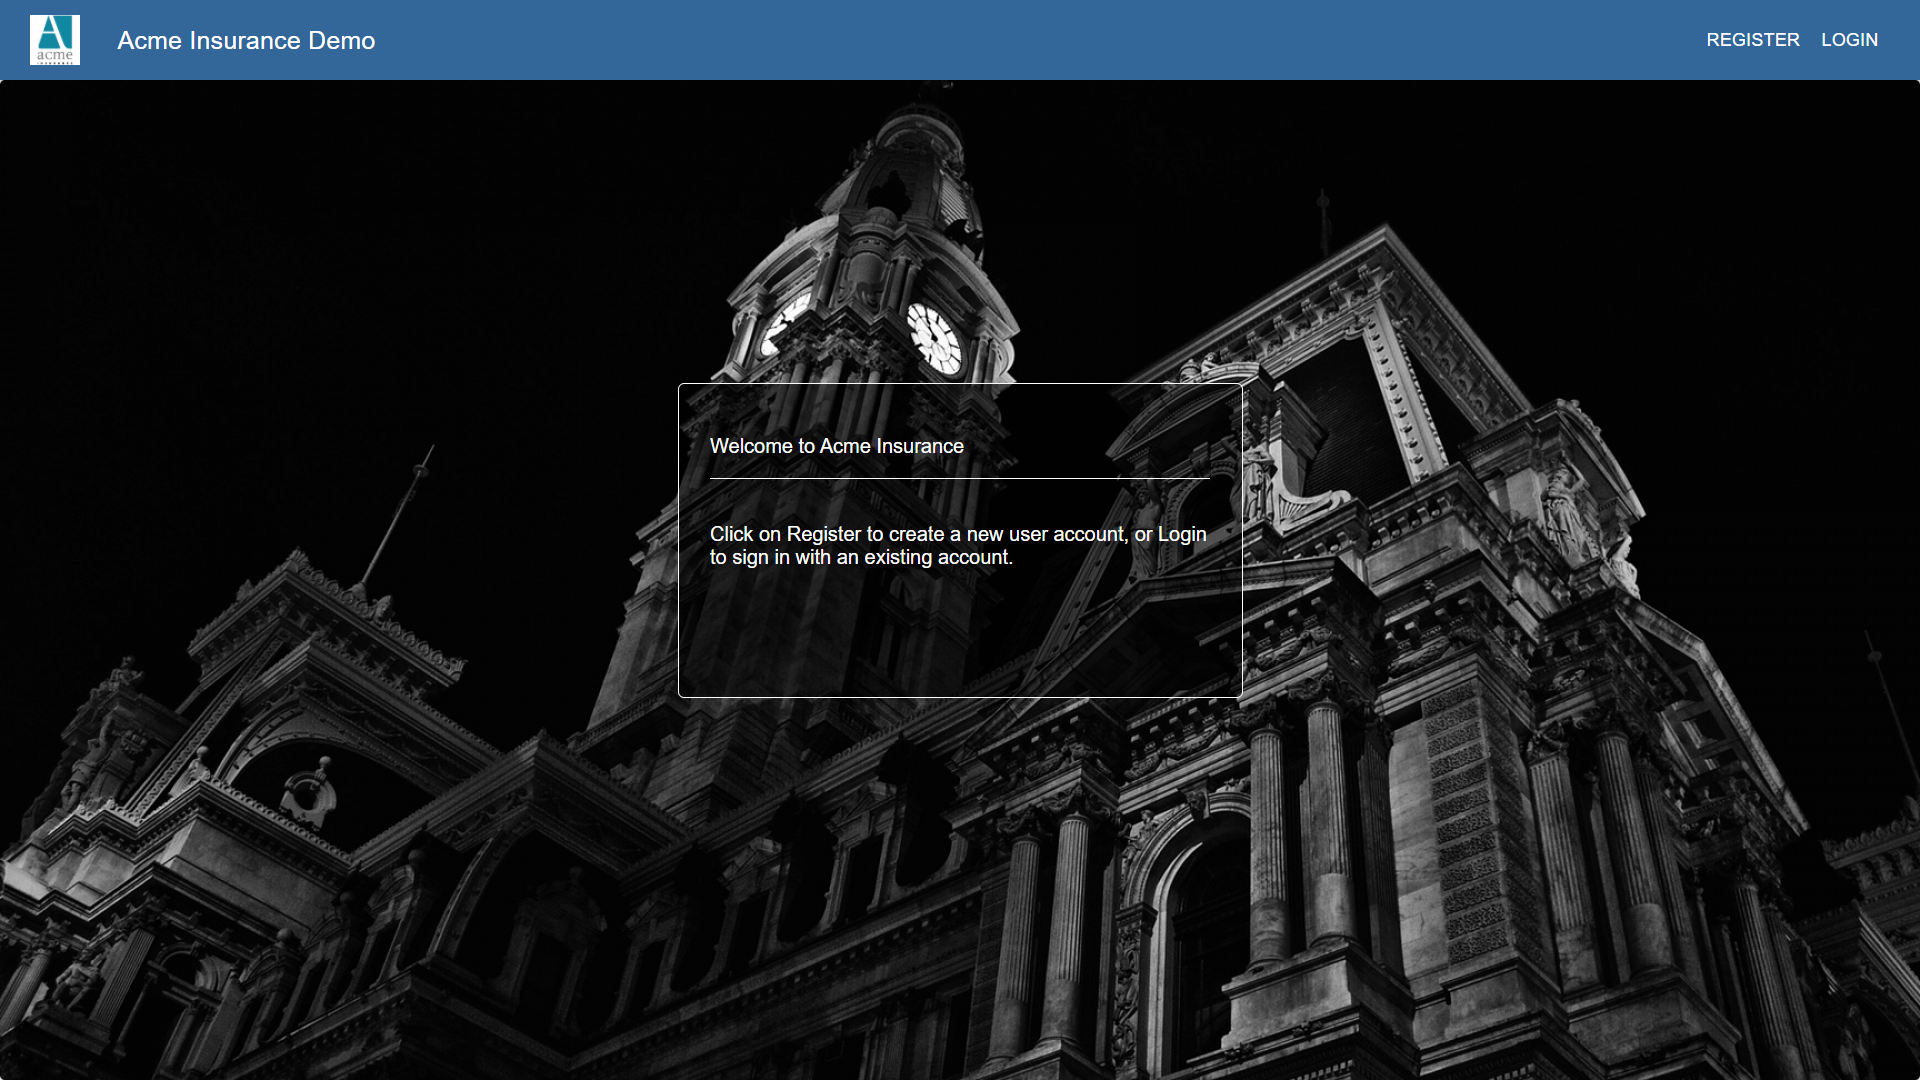
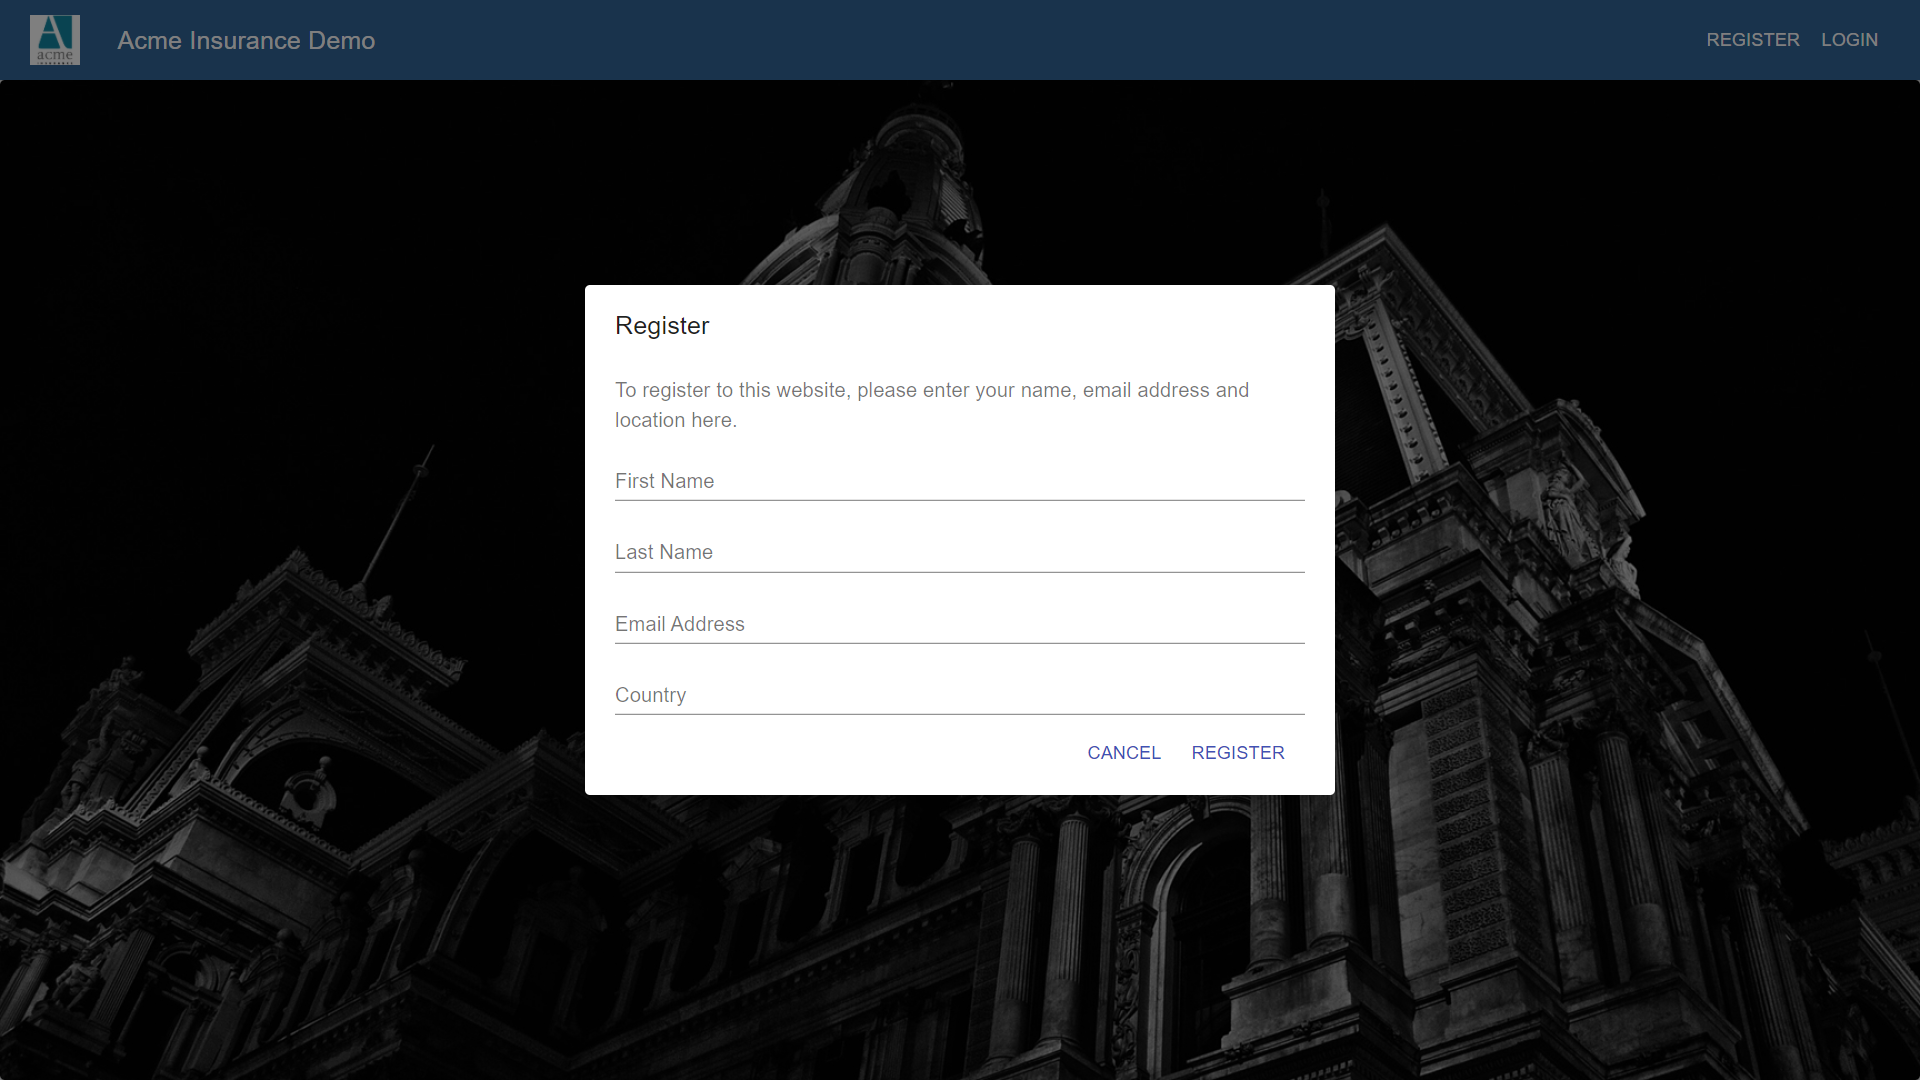
README changes

diff --git a/README.md b/README.md
@@ -167,17 +167,17 @@ Note that the ngrok service is only needed in dev to allow webhook events to be 
 
 - The first thing to do is register. Click on the toolbar link and fill out the form:
 
-  <img src="assets/registerscreen.png"
+  <img src="assets/acme-2.png"
         alt="Organizations"
         style="padding-top: 20px; padding-bottom: 20px" 
         width="700"
         height="400"/>
 
-- If you're using the Streetcred Wallet, make sure your agent is configured to the Sovrin Staging network 
+- To use the Trinsic Wallet, make sure your agent is configured to the Sovrin Staging network 
 
 - When you click "Register" a QR Code is displayed. This is the invite to connect. Scan the QR with your mobile wallet
 
-    <img src="assets/qrcode.png"
+    <img src="assets/phone-1.png"
         alt="Organizations"
         style="padding-top: 20px; padding-bottom: 20px" 
         width="600"
@@ -187,15 +187,32 @@ This is a connection invitation. Webhooks will automatically issue the User Deta
 
 - Accept the credential offer
 
-- The User (Registration) credentials will be issued (along with an auto generated passcode)
-
-Once this is done, eBay and Etsy credentials can be imported and then issued to the user wallet. 
+- The User (Registration) credentials will be issued (along with an auto generated access token) 
 
 To login, a QR Code will be issued 
 
 
-### Issuing and Revoking Credentials
+### Issuing a Policy Credential
 
-To load user data from platforms select the platform and click on "Import User Reputation Data". You will be asked to sign in to that platfom.
+To create a new policy fill out the new policy form details and click "Issue Credential". The phone wallet will ask you to accept or decline the credential. Click on Accept.
 
-Once the data are loaded you can then Issue and Revoke credentials. On each occasion you will be asked to confirm or decline this on the mobile wallet app.
+    <img src="assets/phone-2.png"
+        alt="New Policy"
+        style="padding-top: 20px; padding-bottom: 20px" 
+        width="600"
+        height="340"/>
+
+# St Elsewhere Hospital Registration
+
+Follow the same procedure as for Acme registration.
+
+# Request Insurance Policy
+
+Click on "Request Insurance Policy". The user wallet display the proof request and the fields/values requested as shown here:
+
+    <img src="assets/phone-5.png"
+        alt="New Policy"
+        style="padding-top: 20px; padding-bottom: 20px" 
+        width="600"
+        height="340"/>
+
